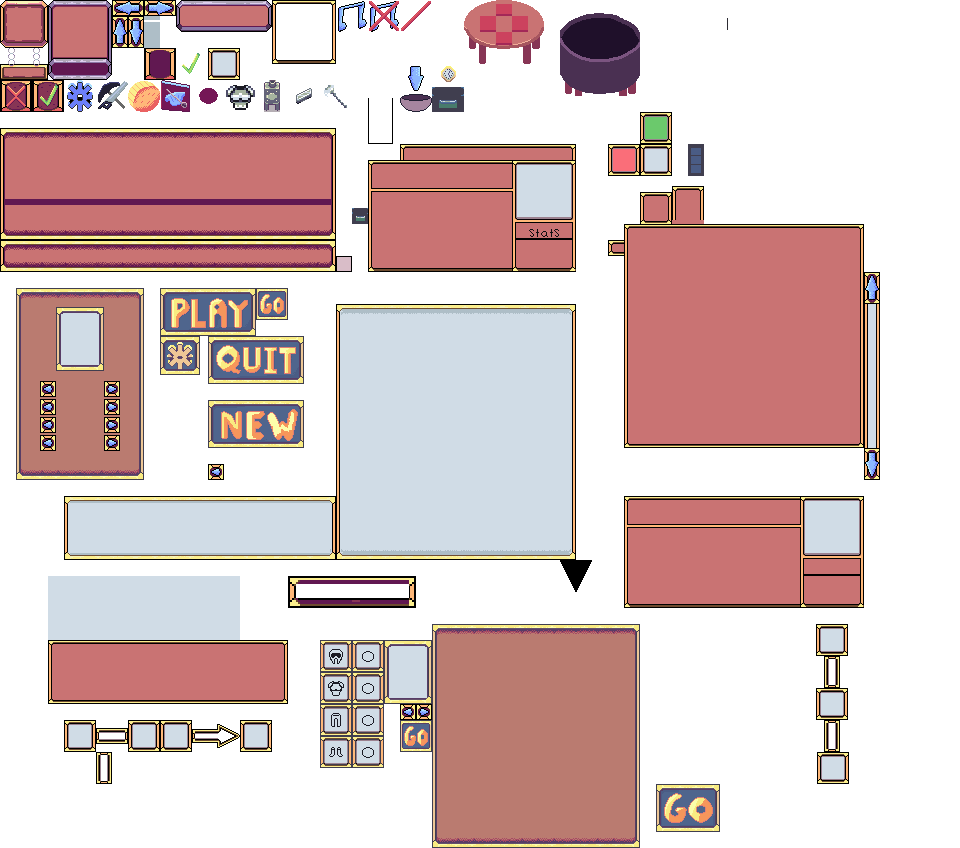
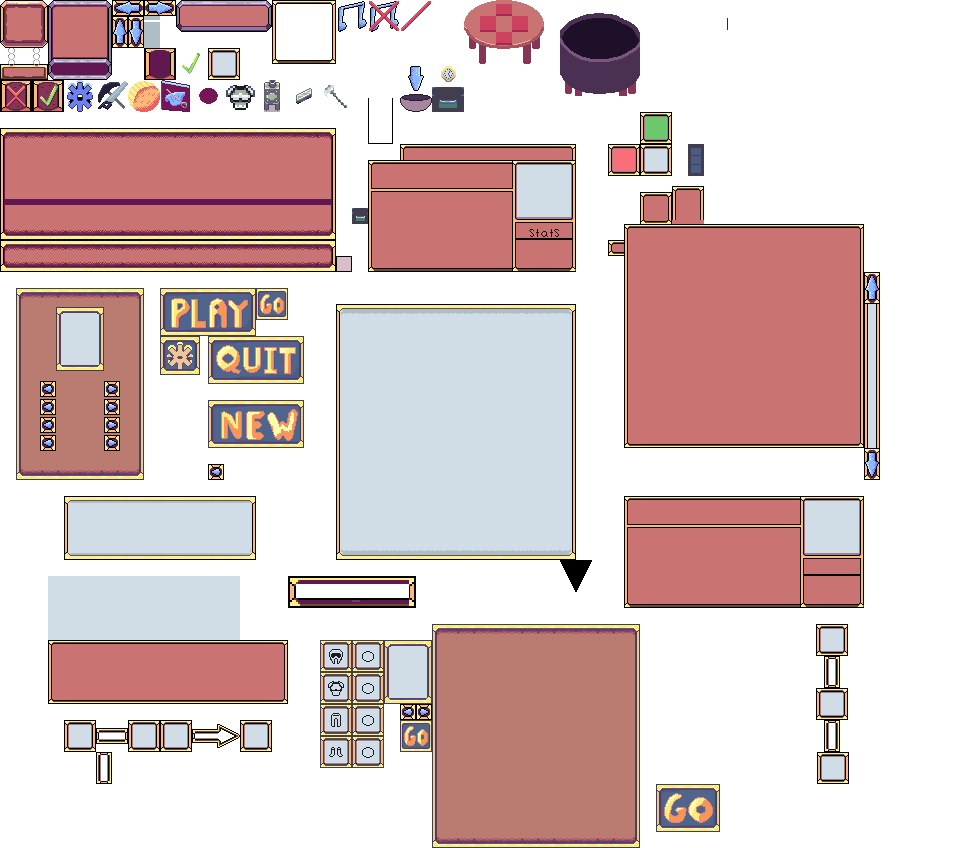
ditto

Changed region(s): [[0.25, 0.5825, 0.375, 0.6745]]

diff --git a/UIEngine/Classes/TextStuff/TalkingWindow.cs b/UIEngine/Classes/TextStuff/TalkingWindow.cs
@@ -31,7 +31,7 @@ namespace UIEngine.Classes.TextStuff
     internal class TalkingWindow : MenuSection
     {
         private static readonly int s_portraitWidth = 96;
-        private Rectangle _backgroundSourceRectangle = new Rectangle(64, 496, 272, 64);
+        private Rectangle _backgroundSourceRectangle = new Rectangle(64, 496, 192, 64);
         private Sprite BackdropSprite { get; set; }
         private TextBuilder TextBuilder { get; set; }
 
@@ -41,7 +41,6 @@ namespace UIEngine.Classes.TextStuff
 
         private Vector2 _scale = new Vector2(3f, 3f);
 
-        private StackPanel _stackPanel;
 
         private Dialogue _curerentDialogue;
 
@@ -50,18 +49,14 @@ namespace UIEngine.Classes.TextStuff
         private Rectangle _goToNextDialogueButtonSourceRectangle = new Rectangle(144, 0, 32, 16);
         private Button _goToNextDialogueButton;
         private bool _displayNextButton;
-        internal List<TalkingOptionPanel> OptionWindows { get; set; }
 
         private Vector2 _portraitSpritePosition;
         private Sprite _portraitSprite;
         private Sprite _potraitFrameSprite;
 
         private StackPanel _tabsStackPanel;
-        private NineSliceTextButton _talkTab;
-        private NineSliceTextButton _questTab;
 
 
-        private NineSliceTextButton _nameTab;
 
         private Quest _activeTalkedQuest;
 
@@ -91,39 +86,39 @@ namespace UIEngine.Classes.TextStuff
             _goToNextDialogueButton = new Button(null, graphics, content,
                 RectangleHelper.PlaceRectangleAtBottomRightOfParentRectangle(TotalBounds, _goToNextDialogueButtonSourceRectangle),
                 GetLayerDepth(Layers.midground), _goToNextDialogueButtonSourceRectangle, GoToNext);
-            _portraitSpritePosition = new Vector2(Position.X + TotalBounds.Width - s_portraitWidth * 2, Position.Y - s_portraitWidth * 2);
+            _portraitSpritePosition = new Vector2(Position.X, Position.Y - s_portraitWidth * 2);
 
-            AddTabs(null);
             base.LoadContent();
         }
 
         /// <summary>
         /// Talk, Quest, and Shop, if available
         /// </summary>
-        private void AddTabs(NPCData npcData)
+        private void AddTabs(Dialogue dialogue)
         {
+            
             ChildSections.Clear();
-            Vector2 tabsStackPanelPosition = new Vector2(Position.X, Position.Y - 64);
+            if (_tabsStackPanel != null)
+            {
+                _tabsStackPanel.CleanUp();
+                _tabsStackPanel.ChildSections.Clear();
+            }
+
+            Vector2 tabsStackPanelPosition = new Vector2(Position.X + _backgroundSourceRectangle.Width * _scale.X + 64, Position.Y - 64);
             _tabsStackPanel = new StackPanel(this, graphics, content, tabsStackPanelPosition, GetLayeringDepth(UILayeringDepths.Low));
-            StackRow _tabStackRow = new StackRow(TotalBounds.Width);
-            _talkTab = new NineSliceTextButton(_tabsStackPanel, graphics, content, Position, GetLayeringDepth(UILayeringDepths.Low),
-                new List<Text>() { TextFactory.CreateUIText("Talk", GetLayeringDepth(UILayeringDepths.Medium),scale:2f) }, SwitchToTalkTab,
-                forcedWidth: 128, forcedHeight: 64, centerTextHorizontally: true, centerTextVertically: true);
-            _tabStackRow.AddItem(_talkTab, StackOrientation.Left);
 
-            _questTab = new NineSliceTextButton(_tabsStackPanel, graphics, content, Position, GetLayeringDepth(UILayeringDepths.Low),
-                new List<Text>() { TextFactory.CreateUIText("Quest", GetLayeringDepth(UILayeringDepths.Medium), scale: 2f) }, SwitchToQuestTab,
-                forcedWidth: 128, forcedHeight: 64, centerTextHorizontally: true, centerTextVertically: true);
-            _tabStackRow.AddItem(_questTab, StackOrientation.Left);
+            foreach (var option in dialogue.DialogueText[_curerentDialogueIndex].Options)
+            {
+                StackRow stackRow = new StackRow(TotalBounds.Width);
+                NineSliceTextButton slice = new NineSliceTextButton(_tabsStackPanel, graphics, content, Position, GetLayeringDepth(UILayeringDepths.Low),
+                    new List<Text>() { TextFactory.CreateUIText(option.Key, GetLayeringDepth(UILayeringDepths.Medium), scale: 1f) }, SwitchToTalkTab,
+                    forcedWidth: 192, forcedHeight: 64, centerTextHorizontally: true, centerTextVertically: true);
+                stackRow.AddItem(slice, StackOrientation.Left);
 
-            //Width here should be the same width as the scaled portrait
-            _tabStackRow.AddSpacer(new Rectangle(0, 0, 192, 64), StackOrientation.Right);
-            _nameTab = new NineSliceTextButton(_tabsStackPanel, graphics, content, Position, GetLayeringDepth(UILayeringDepths.Low),
-              new List<Text>() { TextFactory.CreateUIText(npcData == null ? "Name" : npcData.Name, GetLayeringDepth(UILayeringDepths.Medium), scale: 2f) }, SwitchToQuestTab,
-              forcedWidth: 160, forcedHeight: 64, centerTextHorizontally: true, centerTextVertically: true);
-            _tabStackRow.AddItem(_nameTab, StackOrientation.Right);
+                _tabsStackPanel.Add(stackRow);
 
-            _tabsStackPanel.Add(_tabStackRow);
+            }
+
         }
 
         private StackPanel _questButtonsStackPanel;
@@ -257,7 +252,7 @@ namespace UIEngine.Classes.TextStuff
                 goToResult = "End";
             else
                 goToResult = "questStep";
-            DSnippet snippet = new DSnippet() { DialogueText = dialogueText, GoTo = goToResult };
+            DSnippet snippet = new DSnippet() { DialogueText = dialogueText };
             snippets.Add(0, snippet);
             Dialogue dialogue = new Dialogue() { DialogueText = snippets };
             _curerentDialogueIndex = 0;
@@ -318,6 +313,8 @@ namespace UIEngine.Classes.TextStuff
                 }
                 if (TextBuilder.Update(gameTime, Position + _textOffSet, BackdropSprite.HitBox.Width))
                 {
+                    AddTabs(_curerentDialogue);
+
                     //end of text reached
                     if (Controls.IsClickedWorld || Controls.WasGamePadButtonTapped(GamePadActionType.Cancel))
                     {
@@ -370,7 +367,7 @@ namespace UIEngine.Classes.TextStuff
         }
         private void GoToNext()
         {
-            string goToResult = _curerentDialogue.DialogueText[_curerentDialogueIndex].GoTo;
+            string goToResult =string.Empty;
 
             int newIndex = 0;
 
@@ -395,7 +392,6 @@ namespace UIEngine.Classes.TextStuff
         public NPCData CurrentNPCTalkingTo { get; set; }
         public void LoadNewConversation(NPCData npcData, Dialogue dialogue)
         {
-            AddTabs(npcData);
 
             _selectNextActionJustOccurred = true;
 
@@ -416,23 +412,8 @@ namespace UIEngine.Classes.TextStuff
             float totalTextHeight = TextBuilder.Height;
             Activate();
 
-            if (ChildSections.Contains(_stackPanel))
-                ChildSections.Remove(_stackPanel);
+       
 
-            _stackPanel = new StackPanel(this, graphics, content, new Vector2(Position.X, Position.Y + totalTextHeight), GetLayeringDepth(UILayeringDepths.Medium));
-
-            if (dialogue.Options != null)
-            {
-
-                foreach (var option in dialogue.Options)
-                {
-                    StackRow stackRow = new StackRow((int)((float)_backgroundSourceRectangle.Width / 4 * _scale.X));
-                    TalkingOptionPanel window = new TalkingOptionPanel(_stackPanel, graphics, content, Position, GetLayeringDepth(UILayeringDepths.Medium));
-                    window.LoadNewOption(option.Value);
-                    stackRow.AddItem(window, StackOrientation.Left);
-                    _stackPanel.Add(stackRow);
-                }
-            }
 
             UI.DeactivateAllCurrentSectionsExcept(new List<InterfaceSection>() { this, UI.ClockBar });
         }

diff --git a/UIEngine/Classes/TextStuff/TalkingOptionPanel.cs b/UIEngine/Classes/TextStuff/TalkingOptionPanel.cs
@@ -51,10 +51,10 @@ namespace UIEngine.Classes.TextStuff
         {
             base.MovePosition(newPos);
 
-            _titleTextBuilder = new TextBuilder(DialogueOption.Title,Position, null,null, GetLayeringDepth(UILayeringDepths.Medium), scale: 1.2f);
-            _dialogueTextPosition = new Vector2(Position.X, Position.Y + _titleTextBuilder.Height * 2);
+          //  _titleTextBuilder = new TextBuilder(DialogueOption.Title,Position, null,null, GetLayeringDepth(UILayeringDepths.Medium), scale: 1.2f);
+            //_dialogueTextPosition = new Vector2(Position.X, Position.Y + _titleTextBuilder.Height * 2);
 
-            _dialogueTextBuilder = new TextBuilder(DialogueOption.DialogueText, Position, null, null, GetLayeringDepth(SpriteEngine.Classes.UILayeringDepths.Medium));
+            //_dialogueTextBuilder = new TextBuilder(DialogueOption.Title, Position, null, null, GetLayeringDepth(SpriteEngine.Classes.UILayeringDepths.Medium));
         }
 
         public override void Update(GameTime gameTime)

diff --git a/DataModels/DialogueStuff/DialogueOption.cs b/DataModels/DialogueStuff/DialogueOption.cs
@@ -11,10 +11,8 @@ namespace DataModels.DialogueStuff
     }
     public class DialogueOption
     {
-        public string Title { get; set; }
-        public string DialogueText { get; set; }
-        public string FlavorText { get; set; }
         public DialogueAction DialogueAction { get; set; }
+        public string GoTo { get; set; }
         public List<DialogueRequirement> DialogueRequirements { get; set; }
     }
 }

diff --git a/DataModels/DialogueStuff/DSnippet.cs b/DataModels/DialogueStuff/DSnippet.cs
@@ -9,7 +9,8 @@ namespace DataModels.DialogueStuff
         public string DialogueText { get; set; }
         public byte PortraitIndexX{ get; set; }
         public byte PortraitIndexY { get; set; }
-        public string GoTo { get; set; }
+        public Dictionary<string, DialogueOption> Options { get; set; }
+
 
     }
 }

diff --git a/DataModels/DialogueStuff/Dialogue.cs b/DataModels/DialogueStuff/Dialogue.cs
@@ -9,6 +9,5 @@ namespace DataModels.DialogueStuff
         public string Name { get; set; }
         public Dictionary<int, DSnippet> DialogueText { get; set; }
         public string FlavorText { get; set; }
-        public Dictionary<string, DialogueOption> Options {get;set;}
     }
 }
